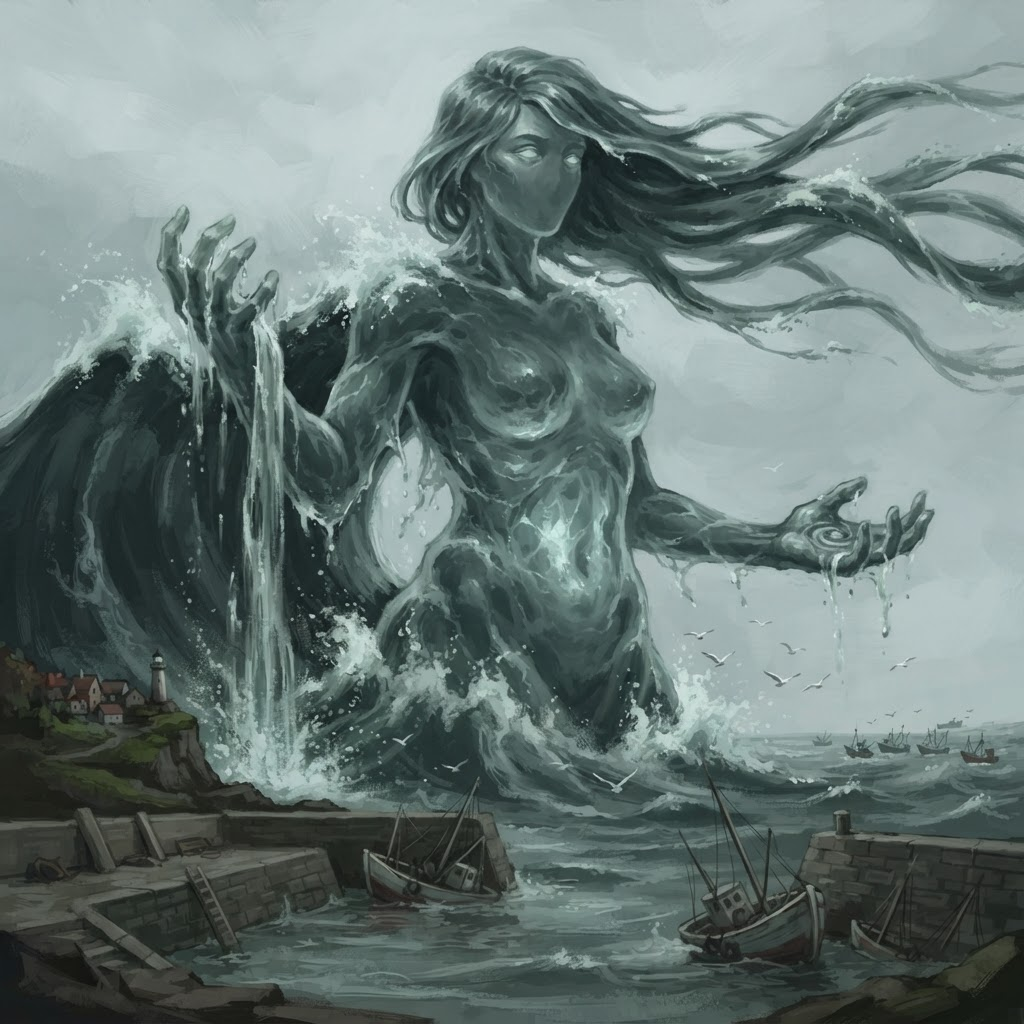
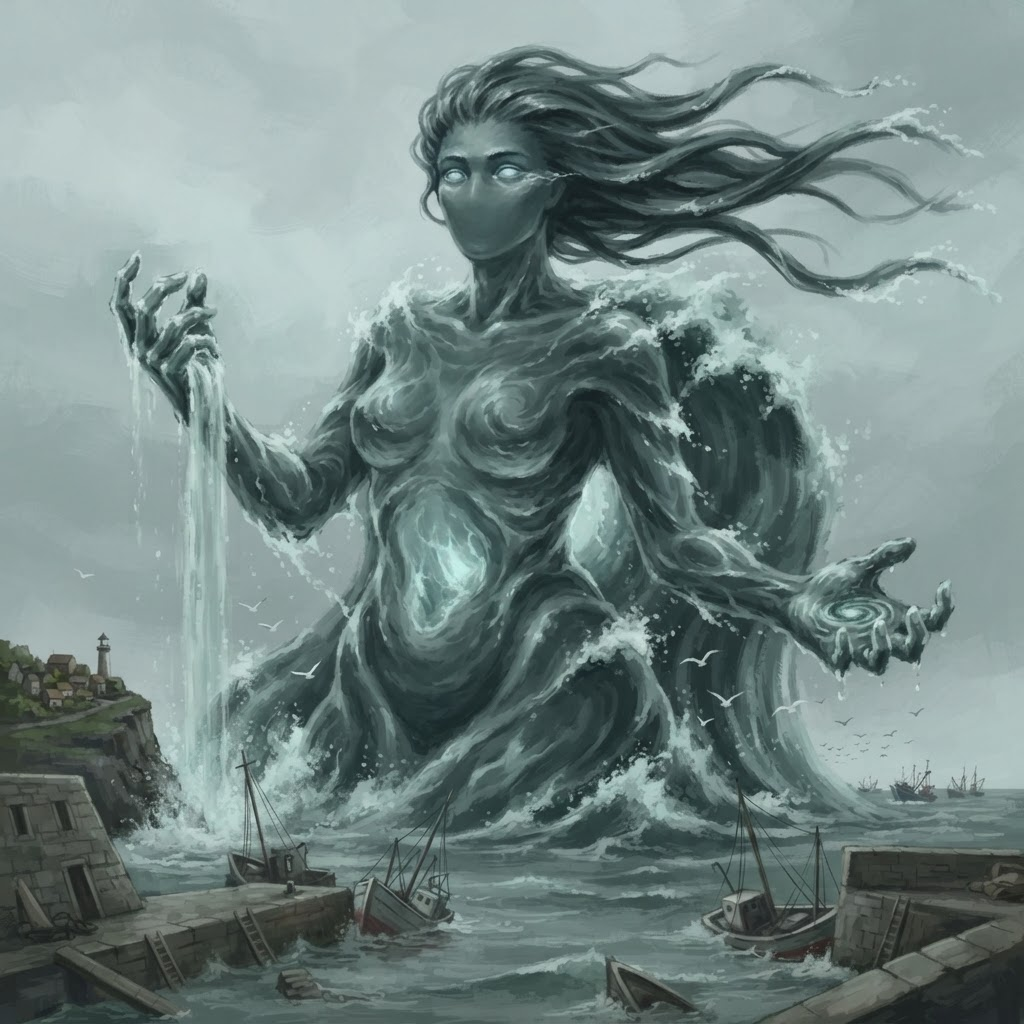
TIDE QUEEN V1 — streaming tide-hair, mouthless — sent

diff --git a/docs/ROSTER-PASS-STATUS.md b/docs/ROSTER-PASS-STATUS.md
@@ -134,3 +134,5 @@ Full pass order: 12 god-emergence re-rolls (6 realms x King+Queen) → Luminary 
 - ✅ TIDE KING CANON LOCKED (Big: 'Keep' ~11:41 PM ET) — art/approved/GOD-MARENVIALE-KING-EMERGENCE-CANON.png. 5/12 GODS LOCKED. NO-MOUTH VERDICT is now the confirmed face law for the whole deity pass (storm pair + tide king all shipped mouthless; every remaining god rolls with the explicit no-mouth ban in the prompt). Tide Queen (Marenvale) rolls next: feminine water mass, tide-hair per the approved streaming-hair precedent.
 
 - GOD 6/12 — TIDE QUEEN (Marenvale) V1 SENT Sept 7 ~11:45 PM ET — feminine water mass under Feminine-Structure + streaming-hair precedent (tide-hair as long ropes of living seawater blown sideways, spray trailing, no crown/brim), NO MOUTH (smooth water below the seam-eyes), waterfall off the raised palm, small whirlpool in the other, torso-up fused with the rising swell. Anchors: lighthouse village, fishing boats, gulls. Awaiting verdict; on Keep the tide pair completes and the roster hits the halfway mark (6/12).
+
+- GOD 6/12 — TIDE QUEEN (Marenvale) V1 SENT Sept 7 ~11:45 PM ET — feminine water mass (flowing chest structure, tide-swept waist, swell hips), tide-hair as long streaming wind-torn water ribbons per the approved streaming-hair precedent (no crown/brim/hat), NO MOUTH per the confirmed face law, bioluminescent seam eyes, whirlpool in the open palm + brine waterfall off the raised hand, torso-up fused with the rising swell. Anchors: drowned harbor quays, capsized/fleeing boats, lighthouse town, gulls. Awaiting verdict; on Keep the TIDE PAIR completes and 6/12 gods are canon — HALFWAY on the pantheon. Next realm up: Stonefell (stone/strata element).
